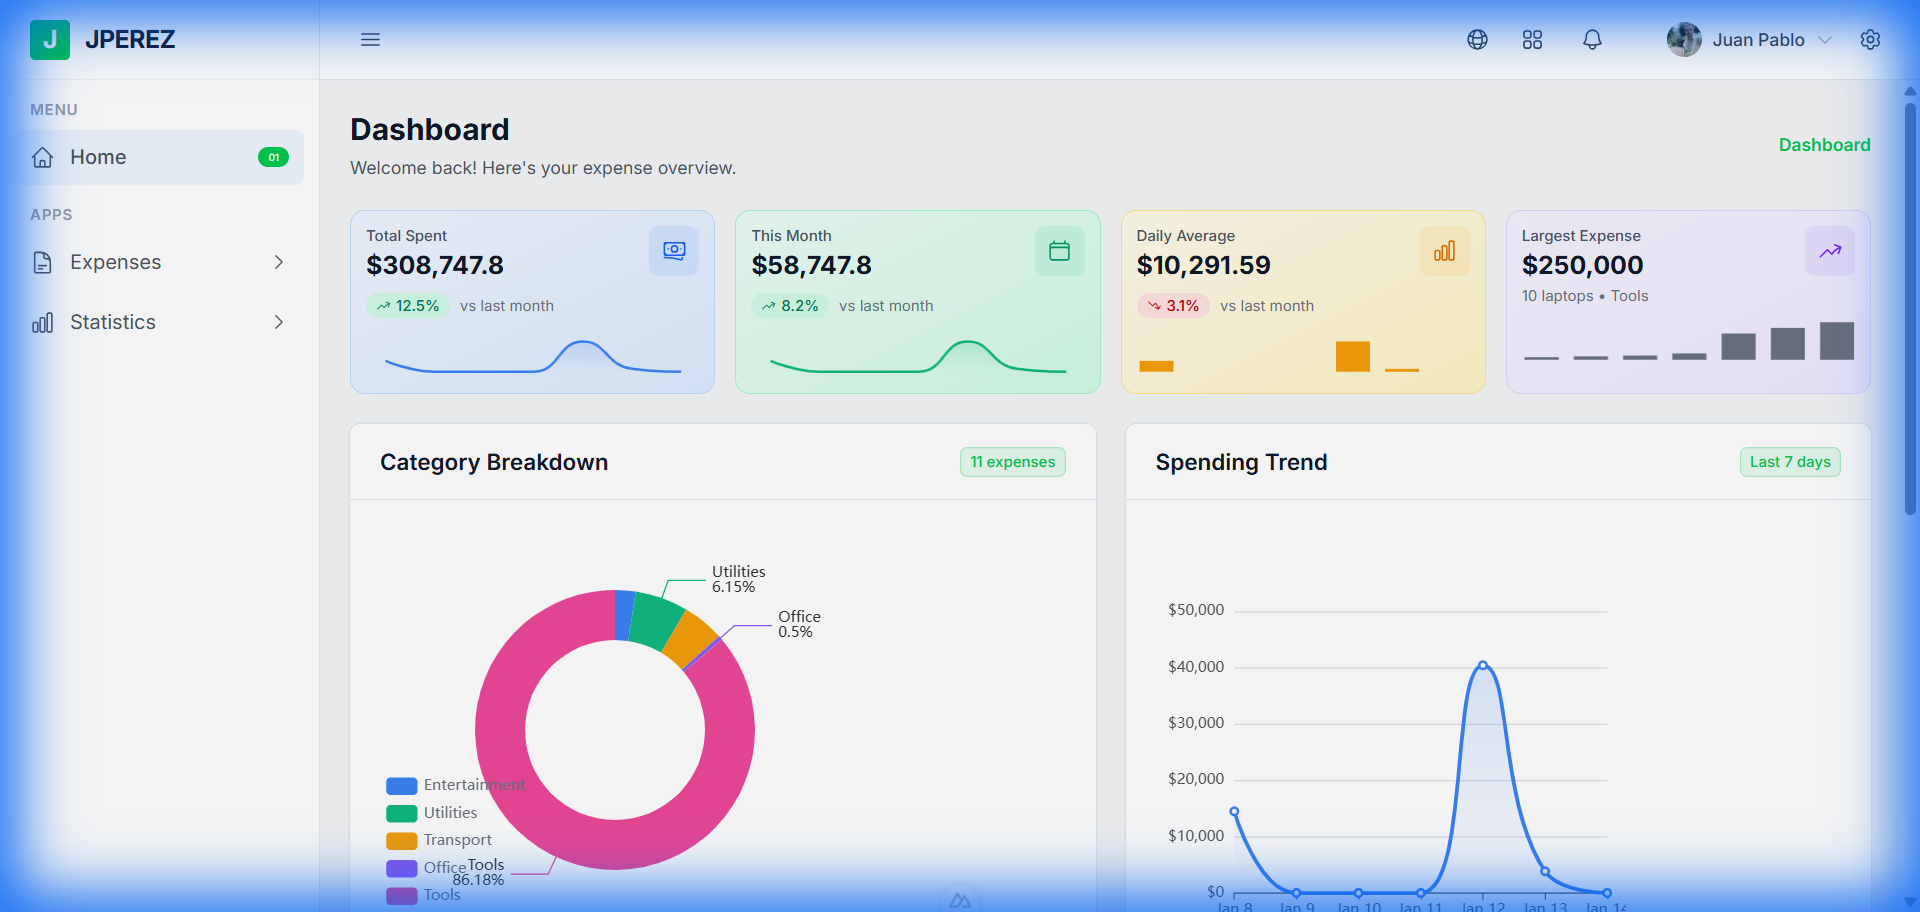
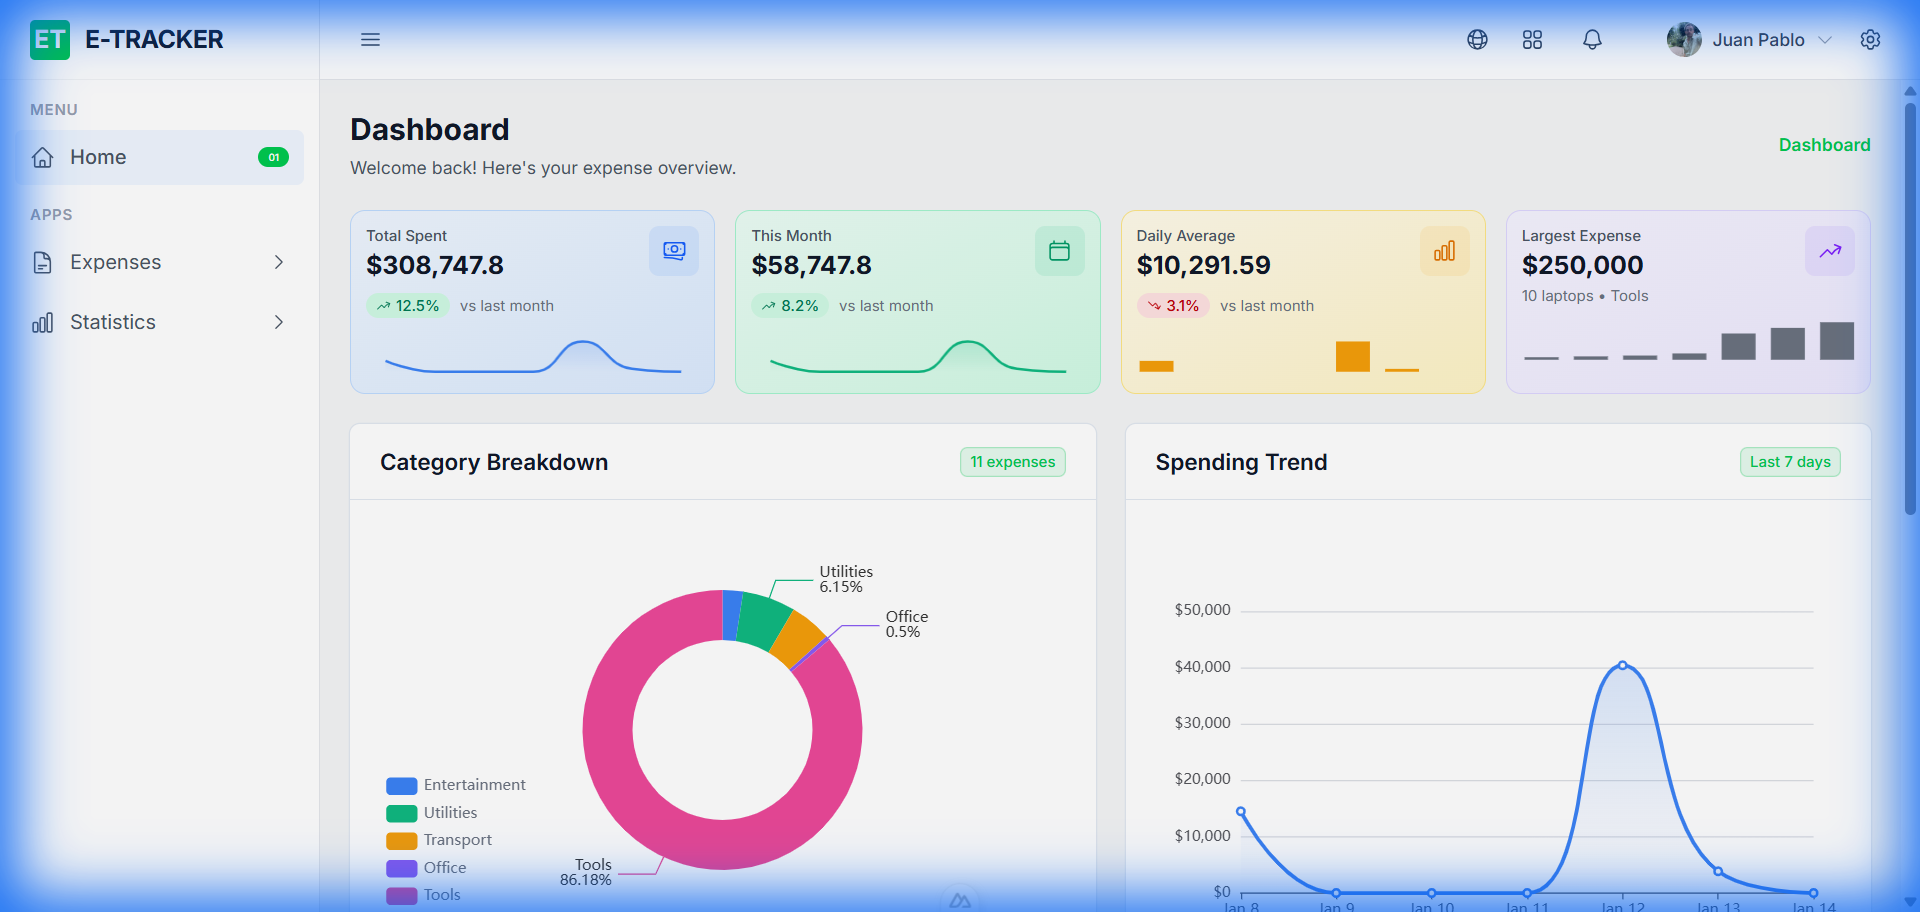
chore: update branding to E-TRACKER and refresh screenshots

diff --git a/app/components/layout/AppSidebar.vue b/app/components/layout/AppSidebar.vue
@@ -93,9 +93,9 @@ onMounted(() => {
       <div class="h-16 flex items-center px-6 border-b border-gray-100 dark:border-gray-800 flex-shrink-0">
         <div class="flex items-center gap-3">
           <div class="w-8 h-8 rounded bg-primary-500 flex items-center justify-center text-white font-bold text-xl flex-shrink-0">
-            J
+            ET
           </div>
-          <span class="font-bold text-xl text-gray-900 dark:text-white tracking-tight whitespace-nowrap">JPEREZ</span>
+          <span class="font-bold text-xl text-gray-900 dark:text-white tracking-tight whitespace-nowrap">E-TRACKER</span>
         </div>
       </div>
 
